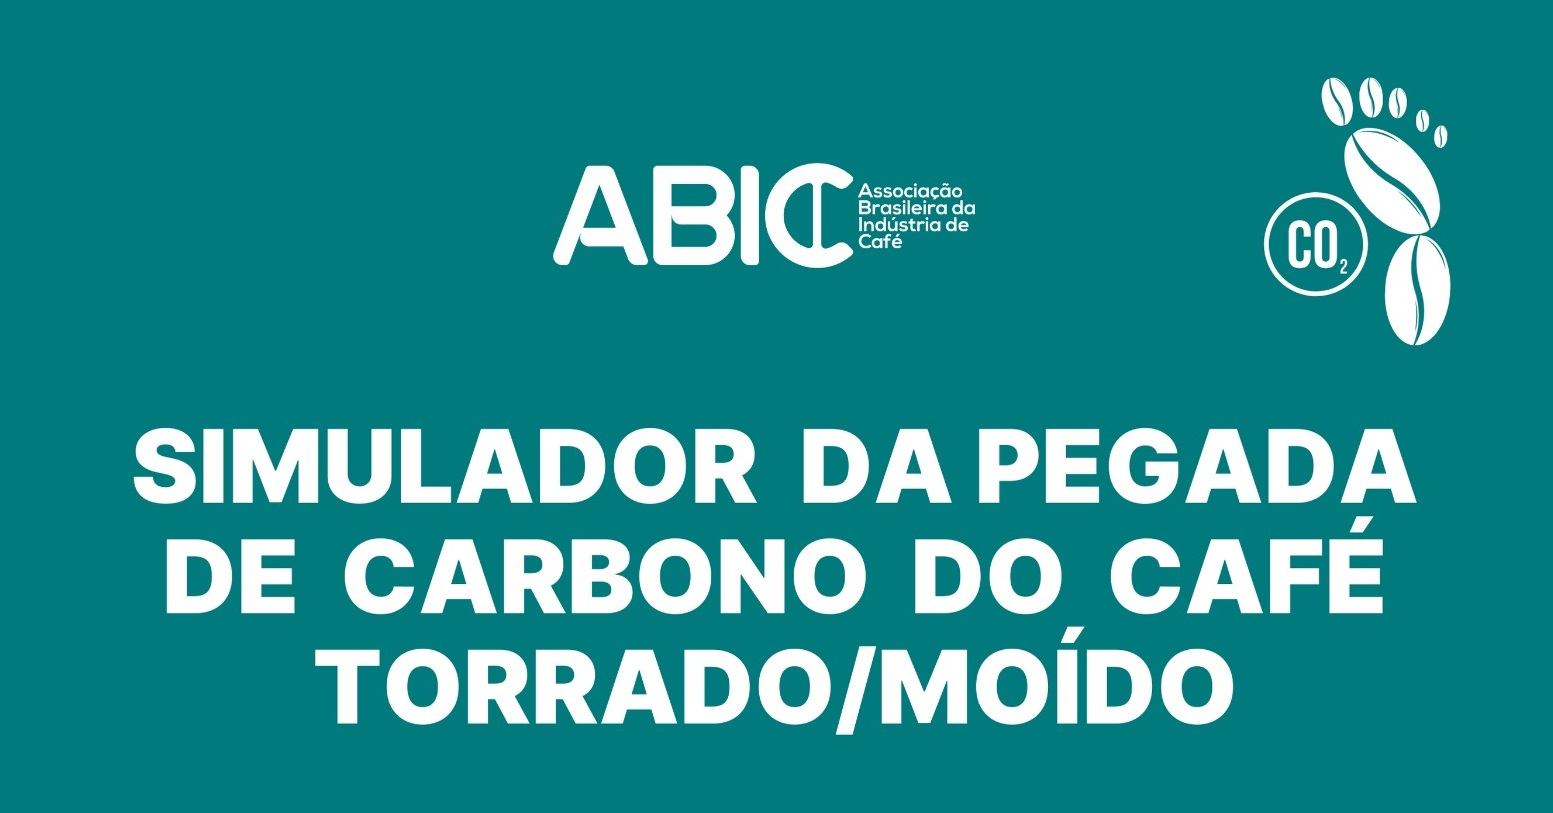
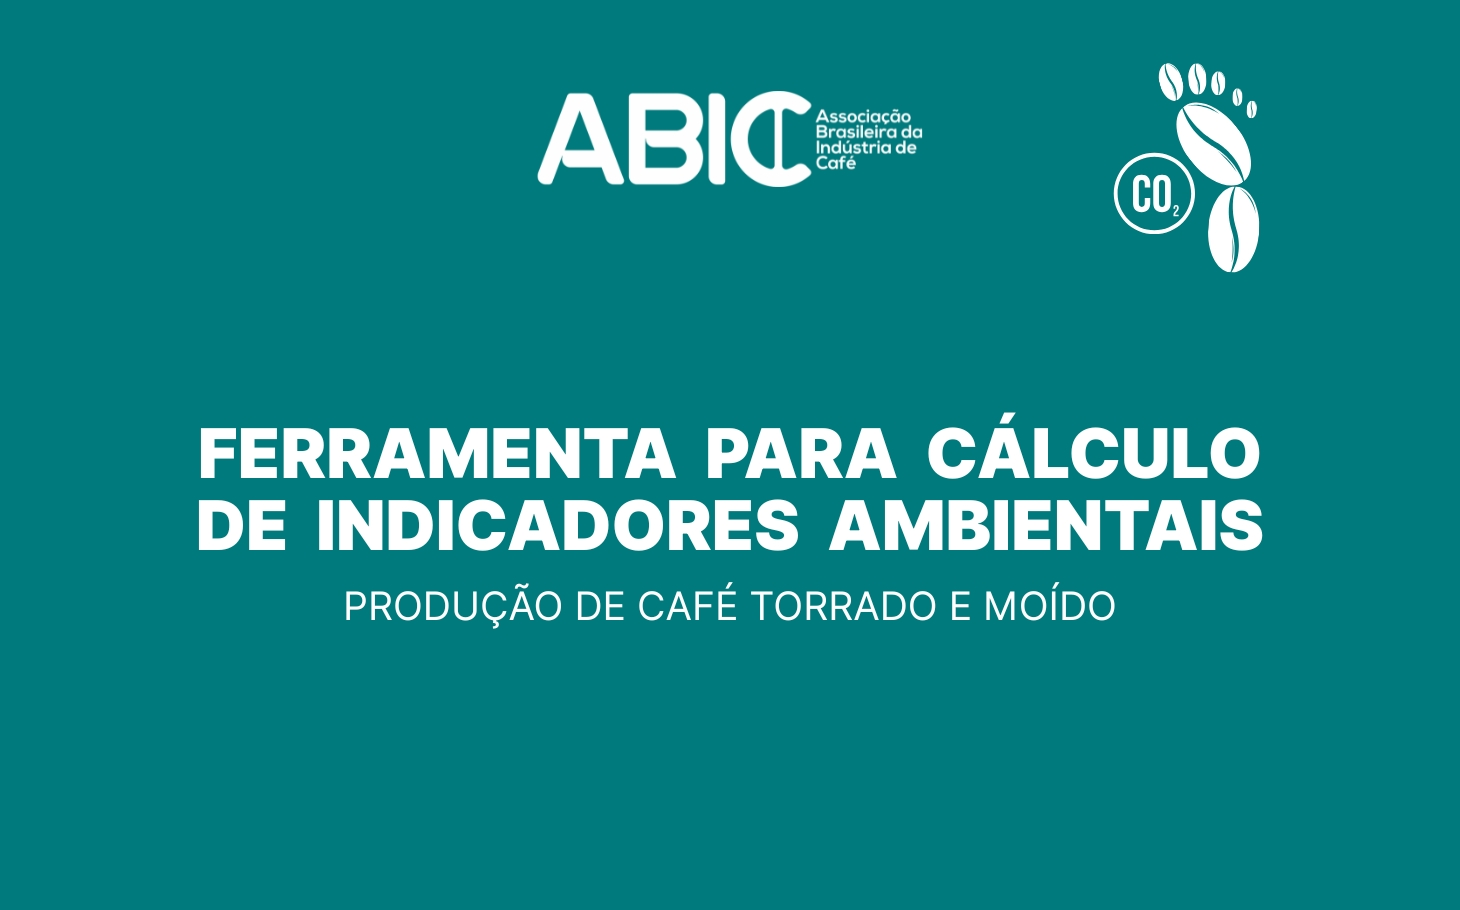
FPC_33
- Nova imagem de abertura e retirado a msg de Faça o Login

diff --git a/main.py b/main.py
@@ -1,9 +1,9 @@
-# Data: 16/07/2025 - Hora: 08:00
+# Data: 22/07/2025 - Hora: 16:00
 # IDE Cursor - claude 3.5 sonnet
 # comando: streamlit run main.py
 # logotipos no sidebar e rodapé - Leticia ABIC
 # função para trocar de senha - OK
-# ajustes layout Anna - versão 3.2
+# ajustes layout Anna - versão 3.3
 
 import streamlit as st
 import sqlite3
@@ -28,7 +28,7 @@ st.set_page_config(
         'About': """
         ### Ferramenta para Cálculo de Indicadores Ambientais da Produção de Café Torrado e Moído 
         
-        Versão: 3.2 - 16/07/2025
+        Versão: 3.3 - 22/07/2025
         
         Esta Ferramenta foi desenvolvida para cálcular os indicadores ambientais da Produção de Café Torrado e Moído 
         
@@ -191,11 +191,11 @@ def authenticate_user():
             st.image("SPCC.jpg", use_container_width=True)
             
         st.markdown("""
-            <p style='text-align: center; font-size: 35px;'>Faça login para acessar o sistema</p>
+            <p style='text-align: center; font-size: 35px;'></p> 
         """, unsafe_allow_html=True)
         
-        # Login na sidebar - versão 3.2
-        st.sidebar.markdown("<h1 style='color: white; font-size: 24px;'>FCIAPC - ver. 3.2</h1>", unsafe_allow_html=True)
+        # Login na sidebar - versão 3.3
+        st.sidebar.markdown("<h1 style='color: white; font-size: 24px;'>FCIAPC - ver. 3.3</h1>", unsafe_allow_html=True)
 
         # Criar labels personalizados com cor branca
         st.sidebar.markdown("<p style='color: white; margin-bottom: 5px;'>E-mail</p>", unsafe_allow_html=True)
